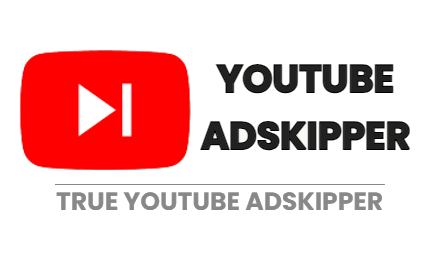
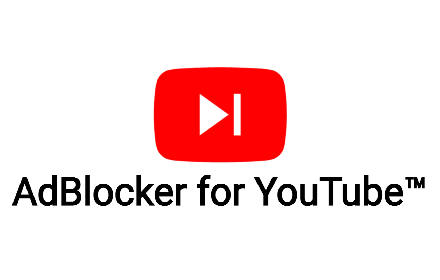
Update extension name

Changed region(s): [[0.0295, 0.1714, 0.975, 0.7714]]

diff --git a/dev/src/popup.html b/dev/src/popup.html
@@ -7,7 +7,7 @@
 <div class="container">
     <div id="header">
         <img id="icon" src="../assets/icon-512.png">
-        <span id="title">YouTube <b>AdSkipper/AdBlocker</b></span>
+        <span id="title">AdBlocker for <b>YouTube&#8482;</b></span>
     </div>
 
     <div class="section">

diff --git a/out/src/popup.html b/out/src/popup.html
@@ -4,7 +4,7 @@
 <div class=container>
 <div id=header>
 <img id=icon src=../assets/icon-512.png>
-<span id=title>YouTube <b>AdSkipper/AdBlocker</b></span>
+<span id=title>AdBlocker for <b>YouTube&#8482;</b></span>
 </div>
 <div class=section>
 <div id=panel>
